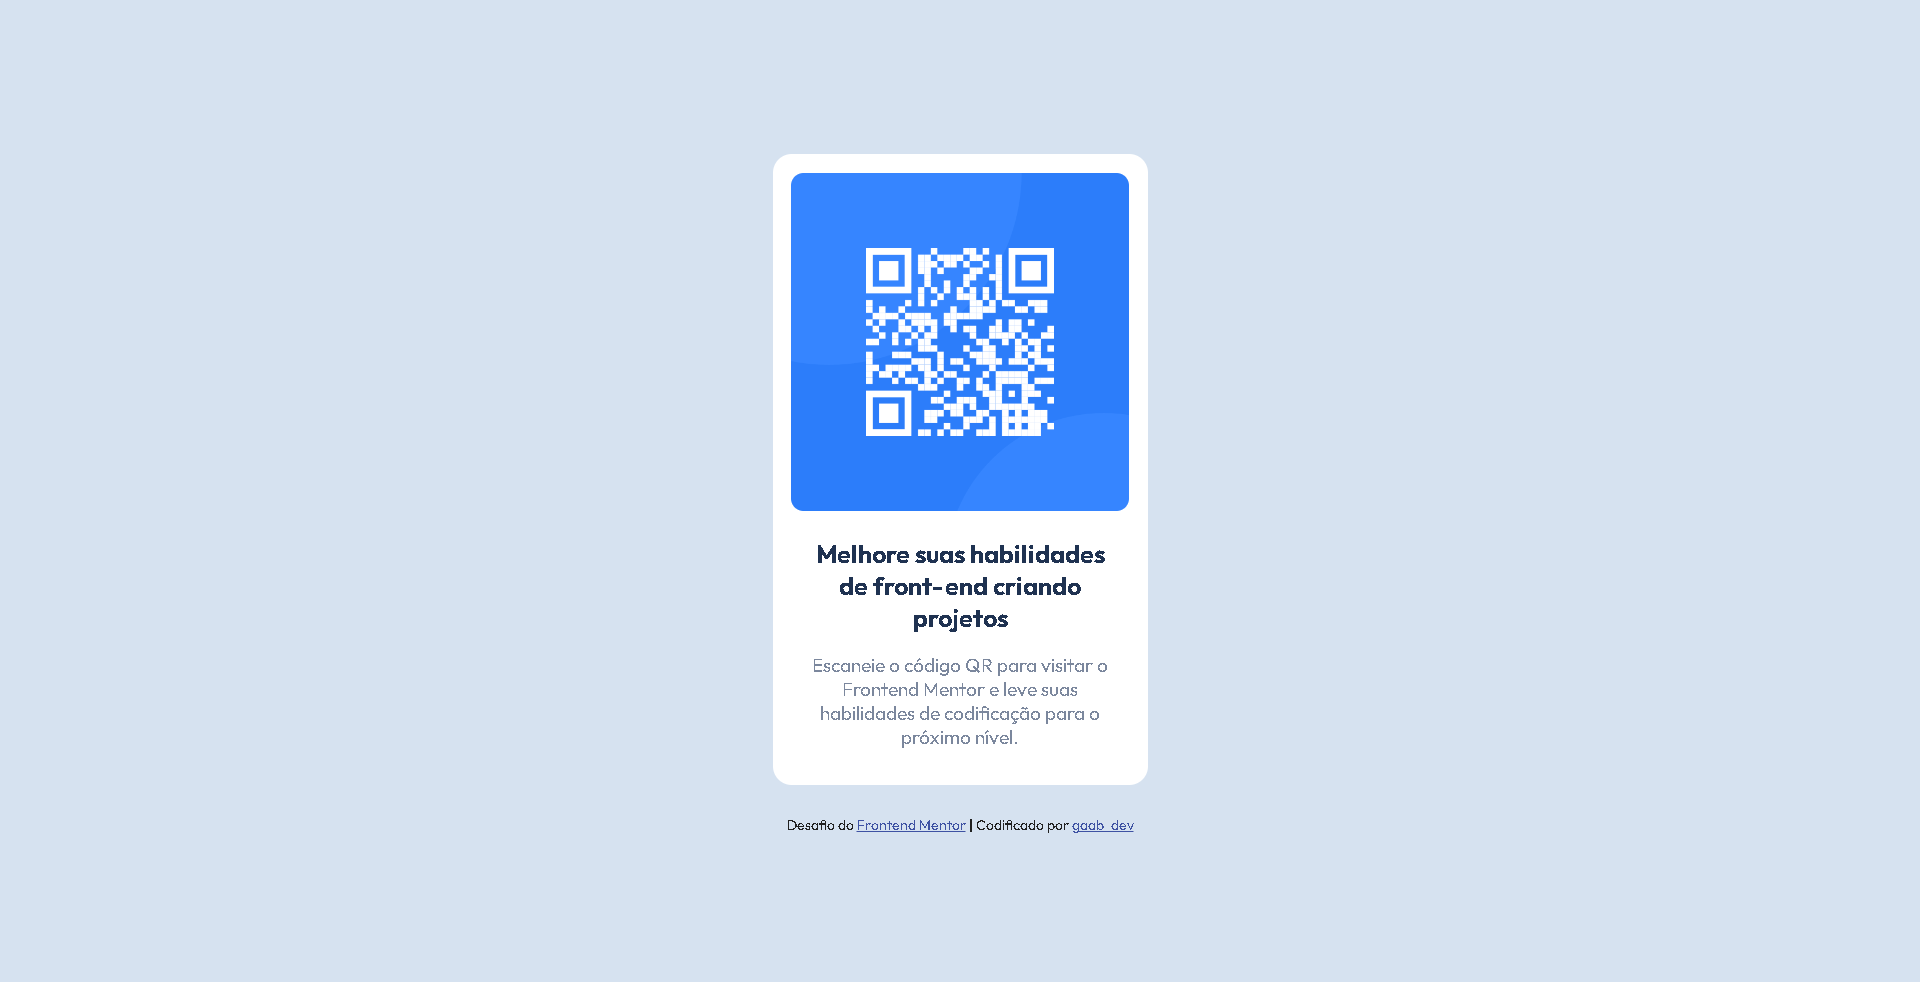
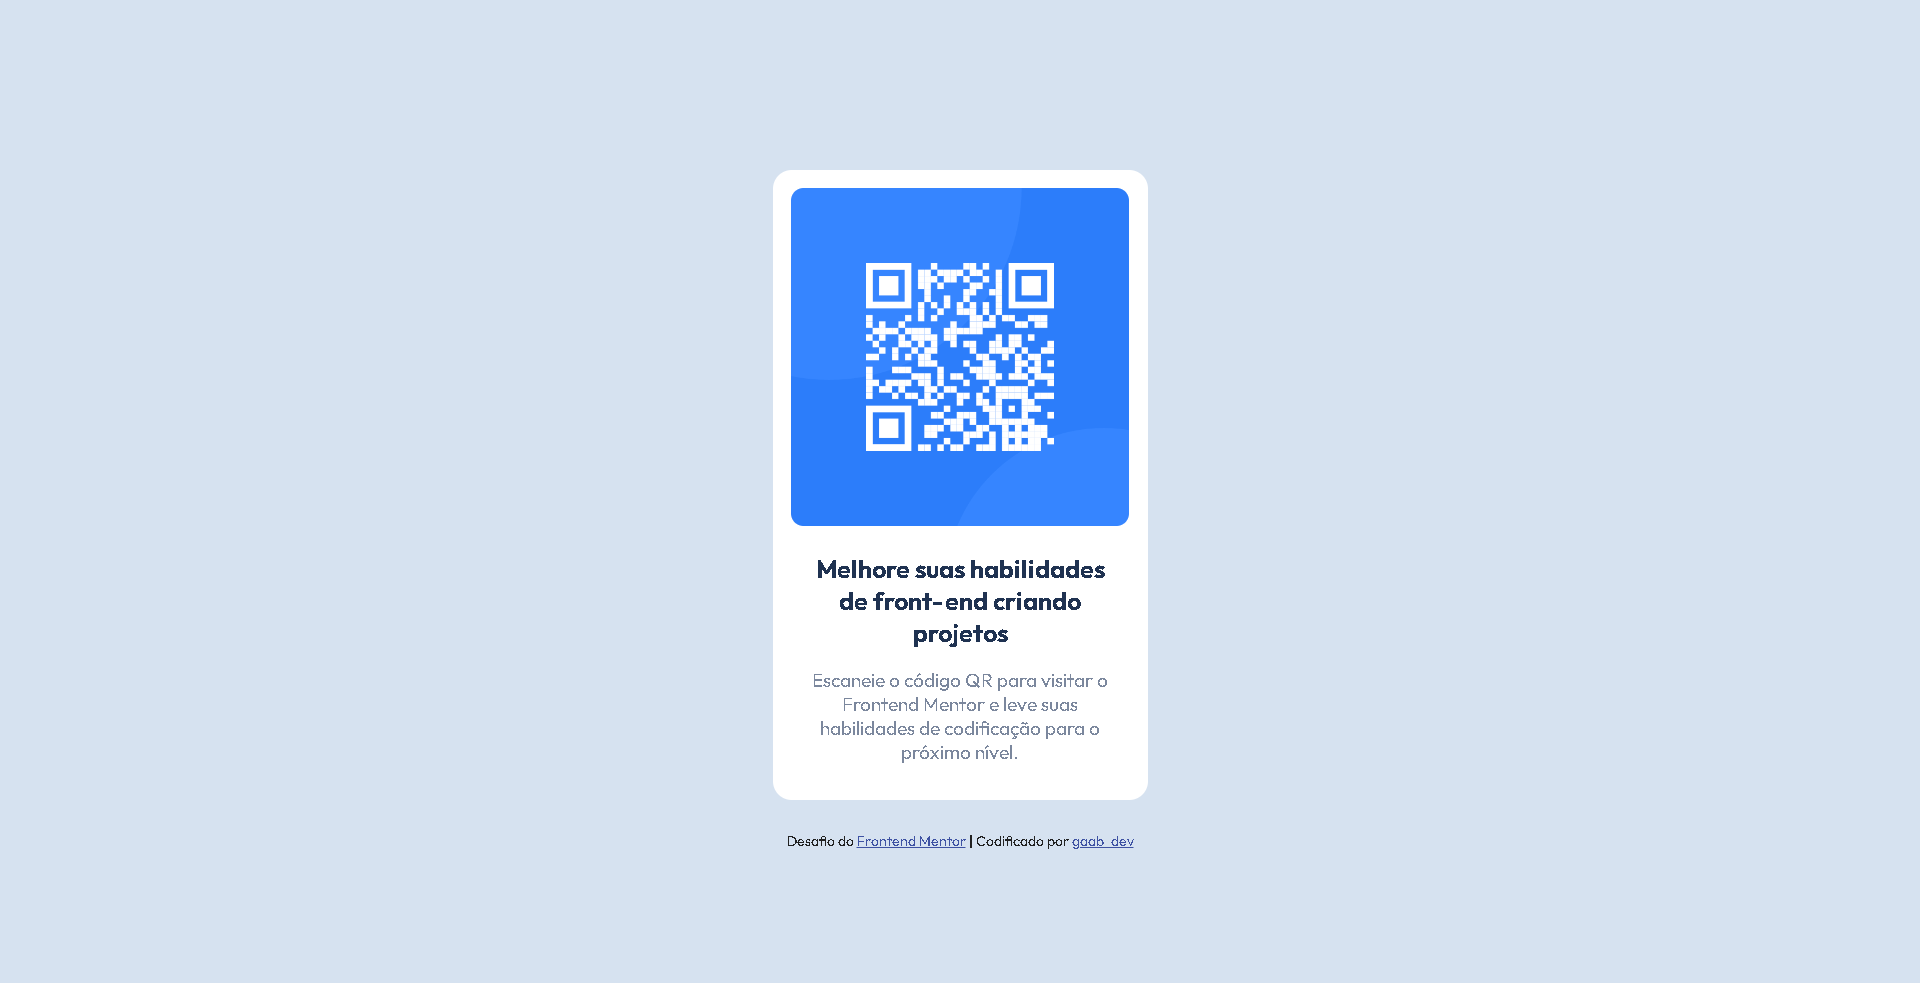
corrections

Changed region(s): [[0.4062, 0.5193, 0.5938, 0.8554], [0.4375, 0.2444, 0.5625, 0.4582], [0.4062, 0.1527, 0.5938, 0.2138]]

diff --git a/src/css/style.css b/src/css/style.css
@@ -6,8 +6,11 @@
 
 body {
     font-family: 'Outfit', sans-serif;
-    max-width: 1280px;
-    margin: 0 auto;
+    min-height: 100vh;
+    display: flex;
+    flex-direction: column;
+    align-items: center;
+    justify-content: center;
     background-color: #d6e2f0;
 }
 
@@ -19,7 +22,6 @@ main {
     background-color: white;
     width: 300px;
     padding: 20px;
-    margin: 100px auto 0;
     display: flex;
     flex-direction: column;
     align-items: center;
@@ -61,8 +63,8 @@ p {
     color: #3e52a3;
 }
 
-@media (max-width: 375px) {
+@media (max-width: 360px) {
     body {
-        width: 375px;
+        width: 360px;
     }
 }

diff --git a/index.html b/index.html
@@ -19,7 +19,7 @@
 <body>
   <main>
     <div class="card">
-      <img src="./src/images/image-qr-code.png" alt="qr code" class="code">
+      <img src="./src/images/image-qr-code.png" alt="QR code to frontend mentor website" class="code">
       <h1>Melhore suas habilidades de front-end criando projetos</h1>
 
       <p>Escaneie o código QR para visitar o Frontend Mentor e leve suas habilidades de codificação para o próximo nível.</p>
